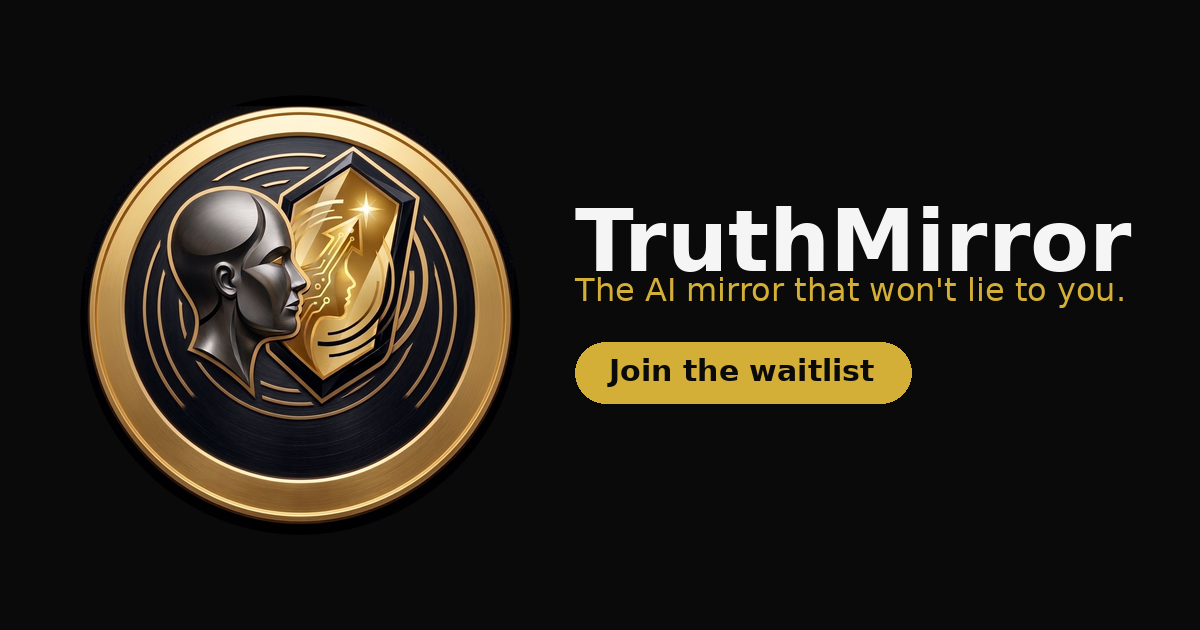
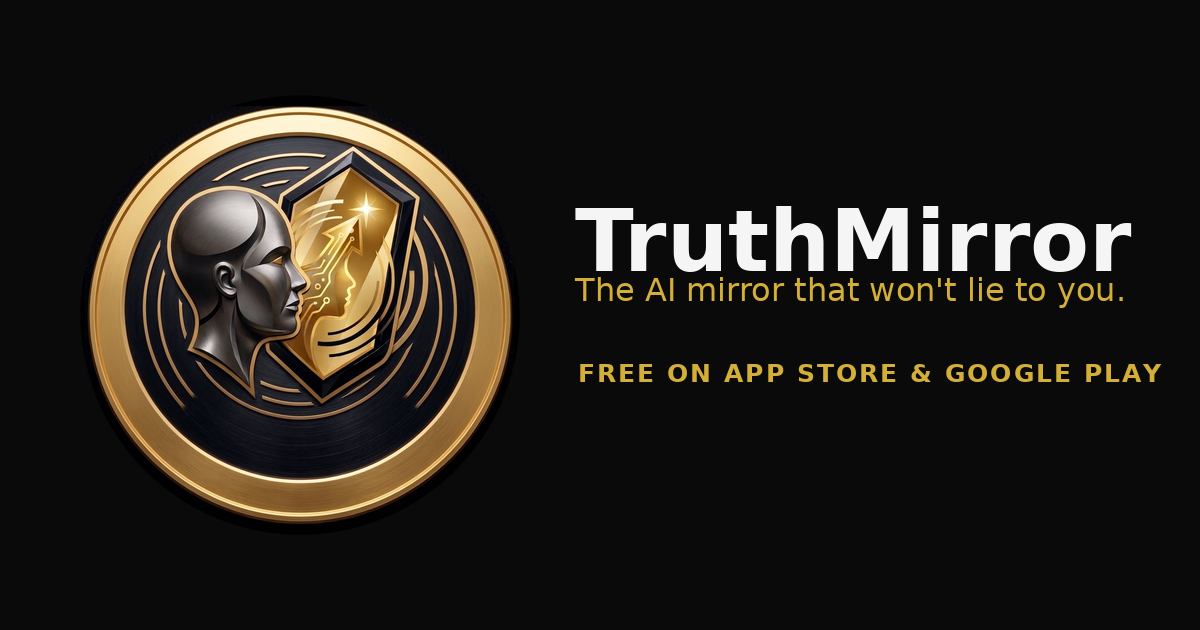
TruthQuiz entry points: hero link (4 langs) + floating pill; og image without waitlist

Changed region(s): [[0.4625, 0.5429, 0.9867, 0.6635]]

diff --git a/index.html b/index.html
@@ -15,7 +15,7 @@
   <meta property="og:url" content="https://www.truthmirror.net/">
   <meta property="og:title" content="TruthMirror — The AI mirror that won't lie to you">
   <meta property="og:description" content="An AI that asks the questions you've been avoiding. No advice, no comfort — just the truth, tracked over time so you can't lie to yourself twice.">
-  <meta property="og:image" content="https://www.truthmirror.net/og-image.png">
+  <meta property="og:image" content="https://www.truthmirror.net/og-image.png?v=2">
   <meta property="og:image:width" content="1200">
   <meta property="og:image:height" content="630">
   <meta property="og:locale" content="en_US">
@@ -23,7 +23,7 @@
   <meta name="twitter:card" content="summary_large_image">
   <meta name="twitter:title" content="TruthMirror — The AI mirror that won't lie to you">
   <meta name="twitter:description" content="An AI that asks the questions you've been avoiding. No advice, no comfort — just the truth, tracked over time so you can't lie to yourself twice.">
-  <meta name="twitter:image" content="https://www.truthmirror.net/og-image.png">
+  <meta name="twitter:image" content="https://www.truthmirror.net/og-image.png?v=2">
   <!-- Structured data: Organization + WebSite + MobileApplication (helps Google understand the brand and the app) -->
   <script type="application/ld+json">
   {
@@ -201,6 +201,11 @@
         </a>
       </div>
       <p class="hero-note" data-i18n="hero.note">Free to start. Available for iPhone and Android.</p>
+      <a href="/quiz" class="tm-quiz-link" id="tmQuizHero"
+         data-q-en="Not ready to download? Take the TruthQuiz"
+         data-q-ro="Nu ești încă hotărât? Încearcă TruthQuiz"
+         data-q-es="¿Aún no te decides? Prueba el TruthQuiz"
+         data-q-ja="まだ迷っている？ TruthQuizを試す">Not ready to download? Take the TruthQuiz</a>
     </div>
   </section>
 
@@ -537,6 +542,58 @@
       } else {
         setTimeout(applyScreens, 0);
       }
+    })();
+  </script>
+  <!-- TruthQuiz entry points: hero link styling + floating pill -->
+  <style>
+    .tm-quiz-link{display:inline-block;margin-top:26px;color:#D4AF37;text-decoration:none;
+      font-size:13.5px;font-weight:600;letter-spacing:.14em;text-transform:uppercase;
+      border-bottom:1px solid rgba(212,175,55,.35);padding-bottom:4px;
+      transition:border-color .2s ease,opacity .2s ease}
+    .tm-quiz-link::after{content:" \2192"}
+    .tm-quiz-link:hover{border-color:#D4AF37;opacity:.92}
+    #tm-quiz-fab{position:fixed;right:18px;bottom:18px;z-index:9999;
+      display:inline-flex;align-items:center;gap:8px;
+      font-size:13px;font-weight:700;letter-spacing:.12em;text-transform:uppercase;
+      color:#D4AF37;text-decoration:none;background:rgba(10,10,10,.85);
+      border:1px solid rgba(212,175,55,.5);border-radius:999px;padding:13px 20px;
+      backdrop-filter:blur(8px);-webkit-backdrop-filter:blur(8px);
+      opacity:0;transform:translateY(16px);pointer-events:none;
+      transition:opacity .4s ease,transform .4s ease,border-color .25s;
+      animation:tmqPulse 3.5s ease-in-out infinite}
+    #tm-quiz-fab.tmq-on{opacity:1;transform:translateY(0);pointer-events:auto}
+    #tm-quiz-fab:hover{border-color:#D4AF37}
+    #tm-quiz-fab span{transition:transform .2s}
+    #tm-quiz-fab:hover span{transform:translateX(3px)}
+    @keyframes tmqPulse{0%,100%{box-shadow:0 0 0 0 rgba(212,175,55,.25)}
+      50%{box-shadow:0 0 22px 2px rgba(212,175,55,.35)}}
+    @media (prefers-reduced-motion:reduce){#tm-quiz-fab{animation:none}}
+  </style>
+  <a id="tm-quiz-fab" href="/quiz" aria-label="Take the TruthQuiz">TruthQuiz <span>&rarr;</span></a>
+  <script>
+    (function(){
+      var hero = document.getElementById('tmQuizHero');
+      function curLang(){
+        var b = document.querySelector('.lang-switch button.active');
+        return (b && b.getAttribute('data-lang')) || localStorage.getItem('tm.site.lang') || 'en';
+      }
+      function applyQuizLang(){
+        if(!hero) return;
+        hero.textContent = hero.getAttribute('data-q-' + curLang()) || hero.getAttribute('data-q-en');
+      }
+      document.querySelectorAll('.lang-switch button').forEach(function(b){
+        b.addEventListener('click', function(){ setTimeout(applyQuizLang, 0); });
+      });
+      if (document.readyState === 'loading'){
+        document.addEventListener('DOMContentLoaded', function(){ setTimeout(applyQuizLang, 0); });
+      } else { setTimeout(applyQuizLang, 0); }
+
+      var fab = document.getElementById('tm-quiz-fab');
+      addEventListener('scroll', function(){
+        var y = scrollY, max = document.documentElement.scrollHeight - innerHeight;
+        if (y > 450 && y < max - 500){ fab.classList.add('tmq-on'); }
+        else { fab.classList.remove('tmq-on'); }
+      }, {passive:true});
     })();
   </script>
 </body>
